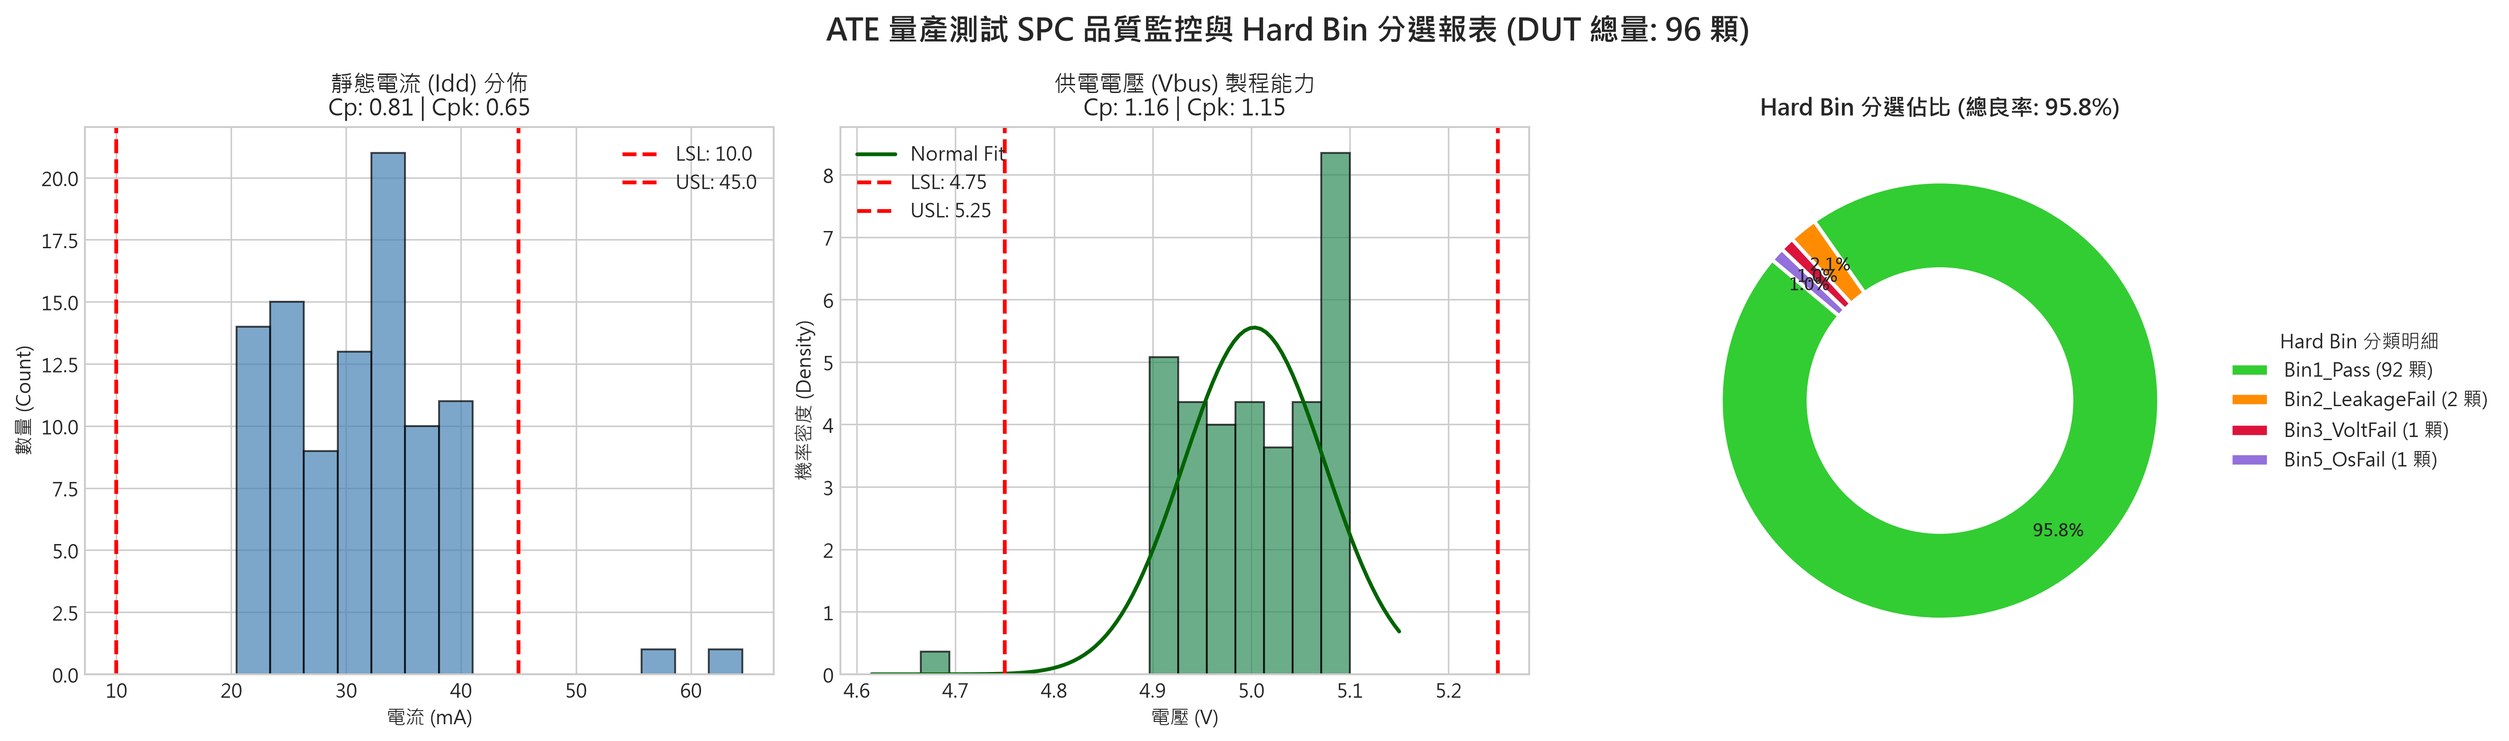
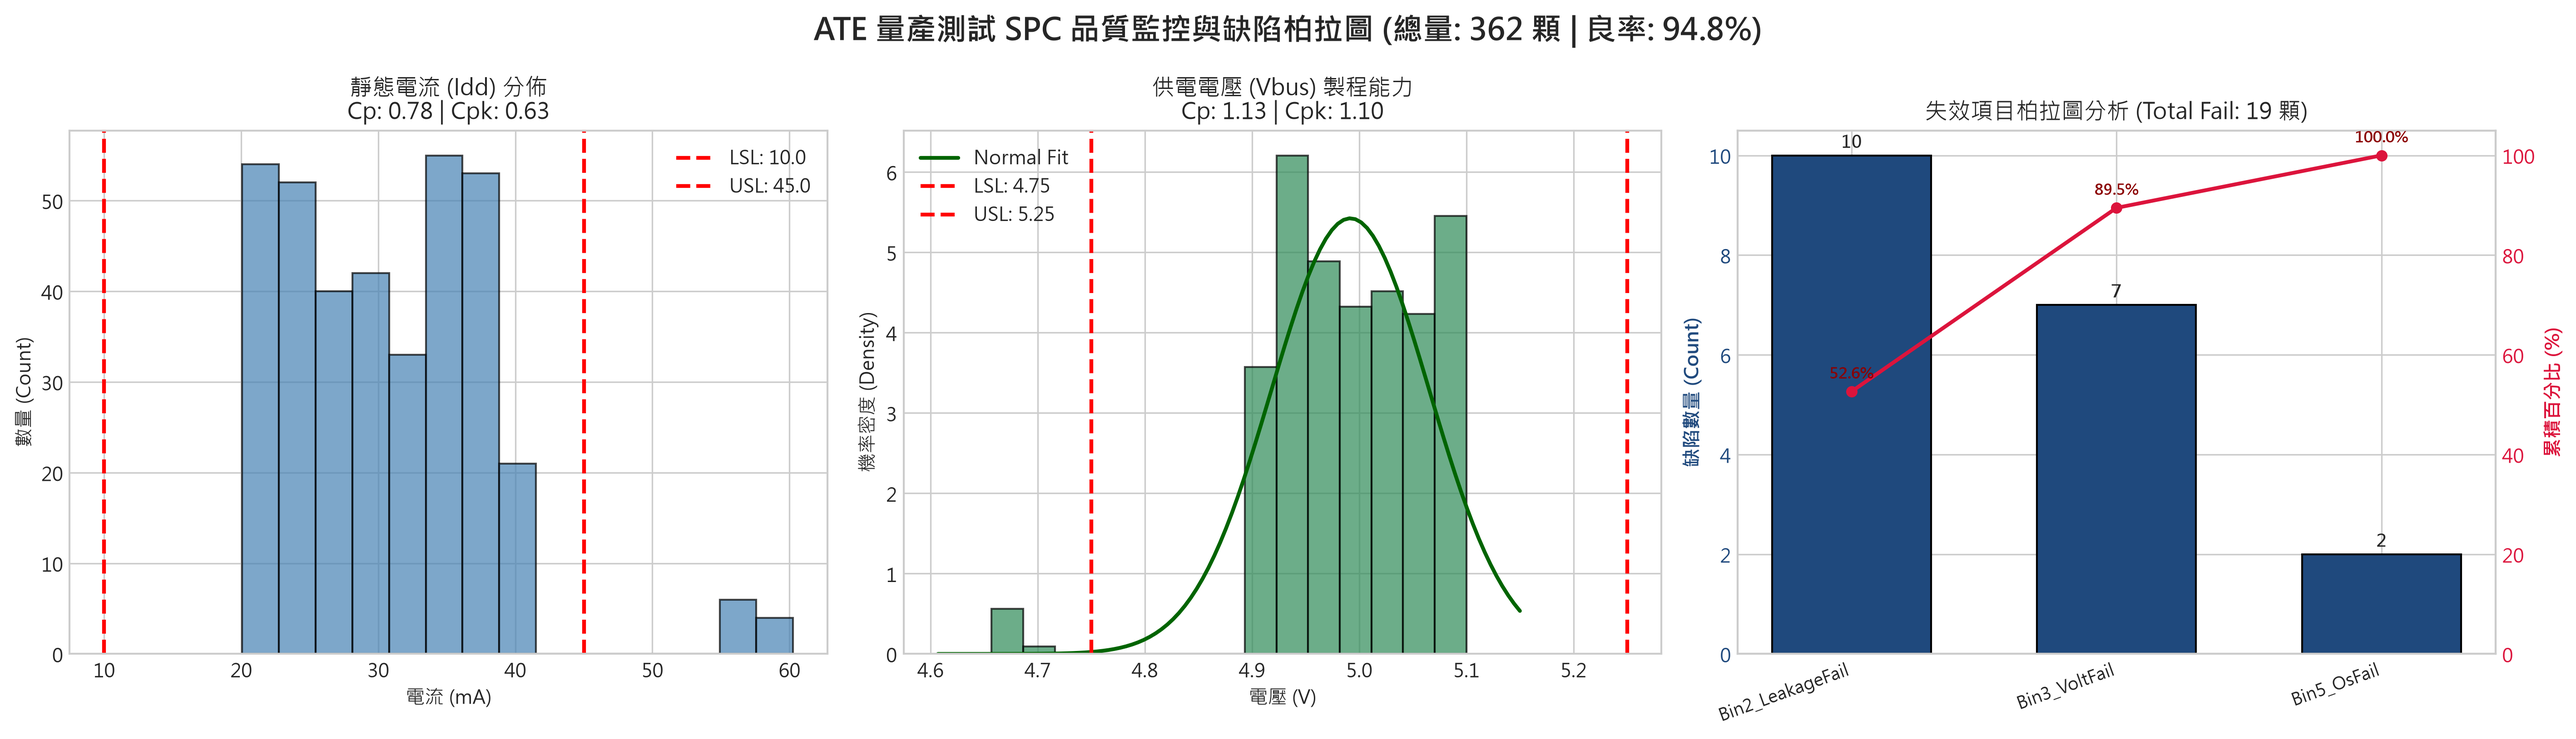
feat: upgrade defect chart to dual-axis Pareto chart and update dashboard image

diff --git a/v2_spc_analysis.py b/v2_spc_analysis.py
@@ -46,7 +46,7 @@ def parse_log_files(folder_path):
                 curr_val = float(curr_match.group(1)) if curr_match else np.nan
                 volt_val = float(volt_match.group(1)) if volt_match else np.nan
                 
-                # 若被 OS 阻斷供電 (0.0V / 0.0mA)，設為 NaN 避免扭曲 SPC
+                # 剔除受保護斷電的 0 值，避免扭曲 SPC
                 if volt_val == 0.0: volt_val = np.nan
                 if curr_val == 0.0: curr_val = np.nan
 
@@ -94,7 +94,7 @@ def calculate_spc_metrics(data, lsl, usl):
 
 def generate_spc_dashboard(df):
     """
-    繪製三合一工業級 SPC 品質與良率監控看板
+    繪製三合一工業級 SPC 品質與柏拉圖缺陷監控看板
     """
     if df.empty:
         return
@@ -109,7 +109,8 @@ def generate_spc_dashboard(df):
     volt_stats = calculate_spc_metrics(volt_data, volt_lsl, volt_usl)
 
     fig, axes = plt.subplots(1, 3, figsize=(19, 5.5))
-    fig.suptitle(f"ATE 量產測試 SPC 品質監控與 Hard Bin 分選報表 (DUT 總量: {len(df)} 顆)", fontsize=16, fontweight='bold')
+    yield_rate = (len(df[df["Result"] == "PASS"]) / len(df)) * 100
+    fig.suptitle(f"ATE 量產測試 SPC 品質監控與缺陷柏拉圖 (總量: {len(df)} 顆 | 良率: {yield_rate:.1f}%)", fontsize=16, fontweight='bold')
 
     # ========================================================
     # 圖 1: 待機電流 (Idd) 直方圖
@@ -125,7 +126,7 @@ def generate_spc_dashboard(df):
         ax1.legend(loc="upper right")
 
     # ========================================================
-    # 圖 2: 供電電壓 (Vbus) 直方圖 + 常態擬合曲線 (純上電數據)
+    # 圖 2: 供電電壓 (Vbus) 直方圖 + 常態擬合曲線
     # ========================================================
     ax2 = axes[1]
     if not volt_data.empty:
@@ -143,44 +144,54 @@ def generate_spc_dashboard(df):
         ax2.legend(loc="upper left")
 
     # ========================================================
-    # 圖 3: Hard Bin 缺陷分選圓環圖 + 獨立圖例 (避免文字擁擠)
+    # 圖 3: 測試失效柏拉圖 (Pareto Chart - 雙 Y 軸)
     # ========================================================
     ax3 = axes[2]
-    bin_counts = df["Bin_Name"].value_counts()
-    
-    color_map = {
-        "Bin1_Pass": "#32CD32",          # 綠色
-        "Bin2_LeakageFail": "#FF8C00",   # 橘色
-        "Bin3_VoltFail": "#DC143C",      # 紅色
-        "Bin4_TotalFail": "#8B0000",     # 深暗紅
-        "Bin5_OsFail": "#9370DB"         # 紫色
-    }
-    slice_colors = [color_map.get(b_name, "#A9A9A9") for b_name in bin_counts.index]
+    # 篩選出純失敗品 (剔除 Pass)
+    fail_df = df[df["Result"] == "FAIL"]
 
-    # 製作圓環圖 (Donut Chart)，扇形內不寫長文字，只標百分比
-    wedges, texts, autotexts = ax3.pie(
-        bin_counts, 
-        labels=None, # 不把字硬塞在扇形邊緣
-        autopct='%1.1f%%', 
-        pctdistance=0.8,
-        startangle=140, 
-        colors=slice_colors,
-        wedgeprops=dict(width=0.4, edgecolor='white', linewidth=2)
-    )
-    for at in autotexts:
-        at.set_fontsize(9)
-        at.set_fontweight('bold')
-    
-    # 建立清楚的右側圖例 (標明名稱與顆數)
-    legend_labels = [f"{b_name} ({bin_counts[b_name]} 顆)" for b_name in bin_counts.index]
-    ax3.legend(wedges, legend_labels, title="Hard Bin 分類明細", loc="center left", bbox_to_anchor=(1, 0, 0.5, 1))
+    if not fail_df.empty:
+        pareto_data = fail_df["Bin_Name"].value_counts().sort_values(ascending=False)
+        categories = pareto_data.index
+        counts = pareto_data.values
+        cum_percentage = (np.cumsum(counts) / np.sum(counts)) * 100
 
-    yield_rate = (len(df[df["Result"] == "PASS"]) / len(df)) * 100
-    ax3.set_title(f"Hard Bin 分選佔比 (總良率: {yield_rate:.1f}%)", fontsize=12, fontweight='bold')
+        # 左 Y 軸: 缺陷數量長條圖
+        bars = ax3.bar(categories, counts, color='#1F497D', edgecolor='black', width=0.6)
+        ax3.set_ylabel("缺陷數量 (Count)", color='#1F497D', fontweight='bold')
+        ax3.tick_params(axis='y', labelcolor='#1F497D')
+        ax3.set_xticklabels(categories, rotation=20, ha='right', fontsize=9)
+        ax3.set_title(f"失效項目柏拉圖分析 (Total Fail: {len(fail_df)} 顆)", fontsize=12)
+
+        # 在長條圖上方標註顆數
+        for bar in bars:
+            height = bar.get_height()
+            ax3.annotate(f'{int(height)}',
+                         xy=(bar.get_x() + bar.get_width() / 2, height),
+                         xytext=(0, 3), textcoords="offset points",
+                         ha='center', va='bottom', fontsize=9, fontweight='bold')
+
+        # 右 Y 軸: 累積百分比折線圖
+        ax3_twin = ax3.twinx()
+        ax3_twin.plot(categories, cum_percentage, color='#DC143C', marker='o', linewidth=2, markersize=5)
+        ax3_twin.set_ylabel("累積百分比 (%)", color='#DC143C', fontweight='bold')
+        ax3_twin.tick_params(axis='y', labelcolor='#DC143C')
+        ax3_twin.set_ylim(0, 105)
+        ax3_twin.grid(False)  # 避免右軸網格線與左軸重疊干擾
+
+        # 標註累積百分比數值
+        for i, pct in enumerate(cum_percentage):
+            ax3_twin.annotate(f'{pct:.1f}%',
+                              xy=(i, pct),
+                              xytext=(0, 6), textcoords="offset points",
+                              ha='center', va='bottom', fontsize=8, color='#8B0000', fontweight='bold')
+    else:
+        ax3.text(0.5, 0.5, "100% Pass\n無缺陷數據", ha='center', va='center', fontsize=14, color='green')
+        ax3.set_title("失效項目柏拉圖", fontsize=12)
 
     plt.tight_layout()
     plt.savefig("spc_binning_dashboard.png", dpi=300, bbox_inches='tight')
-    print("\n[成功] 已產出高解析度 SPC 監控儀表板: 'spc_binning_dashboard.png'")
+    print("\n[成功] 已產出高解析度 SPC 監控儀表板 (含柏拉圖): 'spc_binning_dashboard.png'")
     plt.show()
 
 if __name__ == "__main__":
